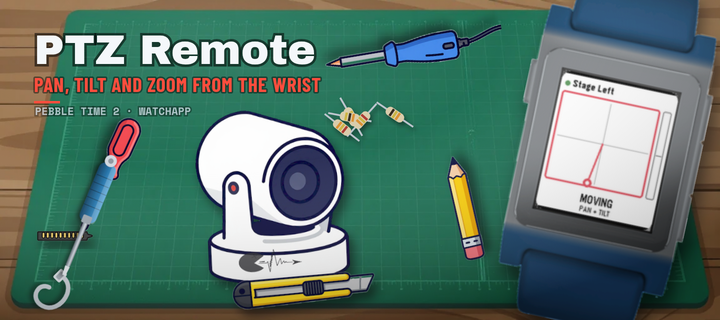
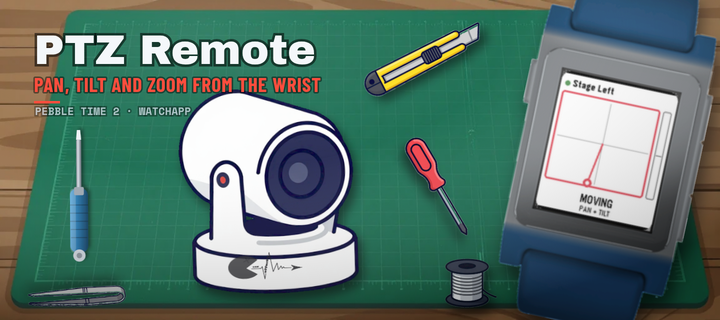
Das Geraet in den Vordergrund, nichts ueberlappt mehr
Das Geraet der App bekommt jetzt die Bildmitte, liegt ganz oben im
Stapel und ist groesser - es ist das Thema des Banners und soll als
erstes gelesen werden. Erst danach fallen die Werkzeuge, und jedes
bekommt nur einen Platz, an dem es nichts beruehrt: nicht den Titel,
nicht die Uhr, nicht das Geraet und kein anderes Werkzeug. Findet ein
Stueck keinen freien Platz, bleibt es eben liegen.

Die Sperrflaeche eines Geraets wird dafuer in waagerechte Baender
zerlegt statt als eine Box gerechnet. Beim Theremin ragt eine duenne
Antenne nach oben; als volle Box haette sie die halbe Bannerhoehe
blockiert und den Tisch leergefegt.

Die Plaetze sind jetzt grosszuegige Zonen statt enger Punkte, und jedes
Werkzeug probiert mehrere Lagen durch - was davon passt, entscheidet die
Kollisionspruefung.

Claude-Session: https://claude.ai/code/session_01Q2ZpSbwi3hgN4GvdvaUSMh

Changed region(s): [[0.2444, 0.0625, 0.7028, 1.0], [0.0306, 0.3438, 0.2139, 0.9688], [0.55, 0.4375, 0.7028, 1.0]]

diff --git a/store/banner/make_desk_banner.py b/store/banner/make_desk_banner.py
@@ -465,31 +465,94 @@ def logo_auf_geraet(uri, platz):
 
 
 PLAETZE = [
-    ("oben", 426, 64, -17, 14, 10, "lang"),
-    ("unten", 300, 294, -5, 22, 8, "lang"),
-    ("links", 94, 206, -78, 10, 12, "kurz"),
-    ("linksoben", 106, 182, -58, 10, 14, "kurz"),
-    ("linksunten", 142, 292, 14, 16, 16, "kurz"),
-    ("rechts", 458, 210, 66, 12, 16, "kurz"),
-    ("kram_oben", 374, 120, 0, 18, 0, "kram"),
-    ("kram_untenrechts", 452, 290, 0, 12, 0, "kram"),
-    ("kram_untenlinks", 54, 292, 0, 10, 0, "kram"),
-    ("kram_links", 74, 244, 0, 10, 0, "kram"),
+    # name, x, y, Drehung, Streuung in x und y, Drehstreuung, Art.
+    # Grosszuegige Zonen statt enger Punkte: was wirklich passt,
+    # entscheidet ohnehin die Kollisionspruefung - sie braucht nur genug
+    # Vorschlaege. Die Mitte gehoert dem Geraet.
+    ("oben", 400, 58, -16, 46, 12, "lang"),
+    ("unten", 290, 292, -4, 60, 8, "lang"),
+    ("links", 62, 196, -80, 20, 14, "kurz"),
+    ("linksunten", 96, 286, 12, 34, 18, "kurz"),
+    ("rechts", 444, 206, 70, 22, 18, "kurz"),
+    ("rechtsoben", 428, 118, 34, 26, 24, "kurz"),
+    ("untenmitte", 340, 292, 8, 50, 14, "kurz"),
+    ("kram_untenrechts", 452, 290, 0, 26, 0, "kram"),
+    ("kram_links", 58, 250, 0, 22, 0, "kram"),
+    ("kram_oben", 372, 36, 0, 40, 0, "kram"),
+    ("kram_linksoben", 62, 142, 0, 22, 0, "kram"),
+    ("kram_untenlinks", 150, 294, 0, 40, 0, "kram"),
 ]
 
 
-def tisch_decken(zufall, projekt, ki=None):
-    """
-    Werkzeuge auf die Plaetze verteilen. Teppichmesser, Loetkolben und
-    zwei Feinschraubendreher sind immer dabei - sie tragen die Serie.
-    Dazu kommen ein bis zwei Stuecke aus dem Vorrat und zwei bis drei
-    Kleinteile, damit kein Tisch wie der vorige aussieht.
+def masse(eintrag, breite=None):
+    """Breite und Hoehe eines Assets in Bannereinheiten."""
+    b = breite or eintrag.get("breite", 160)
+    datei = eintrag.get("datei") or eintrag["dateien"][0]
+    bild = Image.open(os.path.join(KI_ORDNER, datei))
+    return b, b * bild.height / bild.width
 
-    Werkzeuge duerfen um 180 Grad gedreht liegen; beim Loetkolben ist das
-    keine Laune, sondern Pflicht: sein Kabel soll zum Bildrand laufen und
-    nicht quer ueber das Geraet.
+
+def silhouettenboxen(eintrag, x, y, breite=None, baender=7, luft=7):
+    """
+    Die Sperrflaeche eines Geraets, in waagerechte Baender zerlegt.
+
+    Eine einzelne Box um das ganze Asset waere zu grob: beim Theremin
+    ragt eine duenne Antenne nach oben, und die wuerde als Klotz die
+    halbe Bannerhoehe blockieren. Band fuer Band gemessen bleibt nur
+    gesperrt, wo wirklich etwas liegt.
+    """
+    import numpy as np
+    b = breite or eintrag.get("breite", 160)
+    datei = eintrag.get("datei") or eintrag["dateien"][0]
+    bild = Image.open(os.path.join(KI_ORDNER, datei)).convert("RGBA")
+    h = b * bild.height / bild.width
+    alpha = np.asarray(bild.getchannel("A")) > 30
+
+    boxen = []
+    hoch = max(1, alpha.shape[0] // baender)
+    for i in range(0, alpha.shape[0], hoch):
+        streifen = alpha[i:i + hoch]
+        spalten = np.nonzero(streifen.any(axis=0))[0]
+        if not len(spalten):
+            continue
+        links = spalten[0] / bild.width * b - b / 2
+        rechts = (spalten[-1] + 1) / bild.width * b - b / 2
+        oben = i / bild.height * h - h / 2
+        unten = min(i + hoch, alpha.shape[0]) / bild.height * h - h / 2
+        boxen.append((x + links - luft, y + oben - luft,
+                      x + rechts + luft, y + unten + luft))
+    return boxen
+
+
+def huellbox(x, y, dreh, b, h, luft=6):
+    """
+    Achsenparallele Huelle eines gedrehten Rechtecks. Bewusst grosszuegig:
+    lieber ein Platz zu viel verworfen als zwei Werkzeuge, die sich
+    beruehren.
+    """
+    bogen = math.radians(dreh)
+    c, s = abs(math.cos(bogen)), abs(math.sin(bogen))
+    bb = b * c + h * s + 2 * luft
+    hh = b * s + h * c + 2 * luft
+    return (x - bb / 2, y - hh / 2, x + bb / 2, y + hh / 2)
+
+
+def stossen(a, b):
+    """Ueberschneiden sich zwei Rechtecke?"""
+    return not (a[2] <= b[0] or b[2] <= a[0] or a[3] <= b[1] or b[3] <= a[1])
+
+
+def tisch_decken(zufall, projekt, ki=None, belegt=None):
+    """
+    Werkzeuge auf die Plaetze verteilen, ohne dass sich etwas beruehrt.
+
+    Jeder Kandidat bekommt seine Huellbox; stoesst sie an etwas schon
+    Liegendes - Titel, Uhr, das Geraet oder ein anderes Werkzeug - wird
+    der Platz verworfen und der naechste probiert. Lieber liegt ein
+    Werkzeug weniger auf dem Tisch, als dass sich zwei ueberlappen.
     """
     ki = ki or {}
+    belegt = list(belegt or [])
     vorrat = scene.werkzeug_vorrat()
     frei = {art: [p for p in PLAETZE if p[6] == art] for art in ("lang", "kurz", "kram")}
     for art in frei:
@@ -497,72 +560,77 @@ def tisch_decken(zufall, projekt, ki=None):
 
     gelegt = []
 
-    def hinlegen(art, zeichnung, tiefe, flip="zufall"):
-        """flip: 'zufall', 'nie' oder eine Liste von Plaetzen, die kippen."""
-        if not frei[art]:
-            return None
-        name, x, y, dreh, streu, drehstreu, _ = frei[art].pop()
-        x += zufall.uniform(-streu, streu)
-        y += zufall.uniform(-streu, streu)
-        dreh += zufall.uniform(-drehstreu, drehstreu)
-        if flip == "zufall":
-            gekippt = zufall.random() < 0.5
-        elif flip == "nie":
-            gekippt = False
-        else:
-            gekippt = name in flip
-        if gekippt:
-            dreh += 180
-        gelegt.append((tiefe, f'<g transform="translate({x:.0f},{y:.0f}) '
-                              f'rotate({dreh:.1f})">{zeichnung}</g>'))
-        return name
+    def hinlegen(art, name, groesse, zeichnung, tiefe, flip="zufall", versuche=16):
+        """Den ersten Platz nehmen, an dem das Stueck frei liegt."""
+        b, h = groesse
+        for platz in list(frei[art]):
+            _, px_, py_, dreh0, streu, drehstreu, _ = platz
+            for _ in range(versuche):
+                x = px_ + zufall.uniform(-streu, streu)
+                y = py_ + zufall.uniform(-streu, streu)
+                dreh = dreh0 + zufall.uniform(-drehstreu, drehstreu)
+                if flip == "zufall" and zufall.random() < 0.5:
+                    dreh += 180
+                elif isinstance(flip, (tuple, list)) and platz[0] in flip:
+                    dreh += 180
+                box = huellbox(x, y, dreh, b, h)
+                if box[0] < 2 or box[1] < 2 or box[2] > W - 2 or box[3] > H - 2:
+                    continue
+                if any(stossen(box, anderes) for anderes in belegt):
+                    continue
+                belegt.append(box)
+                frei[art].remove(platz)
+                gelegt.append((tiefe, f'<g transform="translate({x:.0f},{y:.0f}) '
+                                      f'rotate({dreh:.1f})">{zeichnung}</g>'))
+                return True
+        return False
 
-    def werkzeug(name, gezeichnet, groesse):
-        """KI-Asset, wenn eines vorliegt - sonst die Zeichnung."""
+    def stueck(name, ersatz_fn, breite):
+        """Asset, wenn vorhanden - sonst die Zeichnung."""
         if name in ki:
-            return ki_bild(ki[name], breite=groesse)
-        return gezeichnet
+            b, h = masse(ki[name], breite)
+            return (b, h), ki_bild(ki[name], breite=breite, zufall=zufall)
+        return (breite, breite * 0.32), ersatz_fn()
 
     # fester Bestand
-    hinlegen("lang", werkzeug("messer", scene.teppichmesser(136 + zufall.uniform(-8, 10)),
-                              136 + zufall.uniform(-8, 10)), zufall.uniform(0.55, 0.9))
-    hinlegen("lang", werkzeug("loetkolben", scene.loetkolben(178 + zufall.uniform(-10, 12)),
-                              176 + zufall.uniform(-10, 12)), zufall.uniform(0.55, 0.9),
-             flip=("oben",))
-    hinlegen("kurz", werkzeug("dreher_rot",
-                              scene.schraubendreher(120 + zufall.uniform(-8, 10), "griff_rot"),
-                              120 + zufall.uniform(-8, 10)), zufall.uniform(0.2, 0.9))
-    hinlegen("kurz", werkzeug("dreher_blau",
-                              scene.schraubendreher(112 + zufall.uniform(-8, 10), "griff_blau"),
-                              112 + zufall.uniform(-8, 10)), zufall.uniform(0.2, 0.9))
+    for name, ersatz, breite, art, flip in (
+            ("messer", lambda: scene.teppichmesser(132), 132, "lang", "zufall"),
+            ("loetkolben", lambda: scene.loetkolben(158), 158, "lang", ("oben",)),
+            ("dreher_rot", lambda: scene.schraubendreher(112, "griff_rot"), 112, "kurz", "zufall"),
+            ("dreher_blau", lambda: scene.schraubendreher(106, "griff_blau"), 106, "kurz", "zufall")):
+        groesse, svg = stueck(name, ersatz, breite)
+        hinlegen(art, name, groesse, svg, zufall.uniform(0.2, 0.9), flip=flip)
 
-    # Gaeste aus dem Vorrat
-    # Gaeste: erst schauen, ob es das Stueck als Asset gibt
+    # Gaeste
     fest = {"messer", "loetkolben", "dreher_rot", "dreher_blau"}
-    gross = [n for n, (art, _) in vorrat.items() if art in ("lang", "kurz")]
+    gross = [n for n, (a, _) in vorrat.items() if a in ("lang", "kurz")]
     gross += [n for n, e in ki.items()
               if e.get("typ") in ("lang", "kurz") and n not in fest and n not in vorrat]
     zufall.shuffle(gross)
-    offen = zufall.randint(1, 2)
+    offen = zufall.randint(2, 3)
     for name in gross:
         if offen <= 0:
             break
         art = ki[name]["typ"] if name in ki else vorrat[name][0]
-        if not frei[art]:
-            continue
-        stueck = (ki_bild(ki[name], zufall=zufall) if name in ki
-                  else vorrat[name][1](zufall))
-        if hinlegen(art, stueck, zufall.uniform(0.2, 0.9)):
+        if name in ki:
+            groesse = masse(ki[name])
+            svg = ki_bild(ki[name], zufall=zufall)
+        else:
+            groesse, svg = (110, 36), vorrat[name][1](zufall)
+        if hinlegen(art, name, groesse, svg, zufall.uniform(0.2, 0.9)):
             offen -= 1
 
     # Kleinteile
-    kram = [n for n, (art, _) in vorrat.items() if art == "kram"]
+    kram = [n for n, (a, _) in vorrat.items() if a == "kram"]
     kram += [n for n, e in ki.items() if e.get("typ") == "kram" and n not in vorrat]
     zufall.shuffle(kram)
-    for name in kram[:zufall.randint(2, 3)]:
-        stueck = (ki_bild(ki[name], zufall=zufall) if name in ki
-                  else vorrat[name][1](zufall))
-        hinlegen("kram", stueck, zufall.uniform(0.05, 0.18), flip="nie")
+    for name in kram[:zufall.randint(3, 5)]:
+        if name in ki:
+            groesse = masse(ki[name])
+            svg = ki_bild(ki[name], zufall=zufall)
+        else:
+            groesse, svg = (52, 52), vorrat[name][1](zufall)
+        hinlegen("kram", name, groesse, svg, zufall.uniform(0.05, 0.18), flip="nie")
 
     return gelegt
 
@@ -637,9 +705,9 @@ def banner(projekt, shot, titel, unterzeile, plattform, logo_pfad, seed,
         logo_im_geraet = ""
     else:
         projekt_svg = scene.PROJEKTE[projekt](akzent, logo_im_geraet)
-    px = 272 + zufall.uniform(-10, 10)
-    py = 196 + zufall.uniform(-8, 8)
-    pd = zufall.uniform(-4, 4)
+    px = 268 + zufall.uniform(-8, 8)
+    py = 190 + zufall.uniform(-6, 6)
+    pd = zufall.uniform(-3, 3)
 
     # Werkzeuge und Geraet nach Tiefe stapeln: manches liegt unter dem
     # Geraet, manches darueber - das macht den Tisch erst unaufgeraeumt.
@@ -664,7 +732,15 @@ def banner(projekt, shot, titel, unterzeile, plattform, logo_pfad, seed,
                     f'<g transform="translate({lage["px"]},{lage["py"]}) '
                     f'rotate({lage["pd"]})">{innen}</g>')
 
-    stapel = tisch_decken(zufall, projekt, ki)
+    # Sperrflaechen, bevor das erste Werkzeug faellt: Titel, Uhr und das
+    # Geraet. Das Thema der App gehoert in den Vordergrund und bleibt frei.
+    belegt = [(16, 4, 350, 134),
+              (uhr_x - uhr_b / 2 - 8, 0, W, H)]
+    if projekt in ki:
+        belegt += silhouettenboxen(ki[projekt], px, py)
+    else:
+        belegt.append(huellbox(px, py, pd, 240, 170, luft=10))
+    stapel = tisch_decken(zufall, projekt, ki, belegt)
     if not ohne_geraet:
         stapel.append((0.5, f'<g transform="translate({px:.0f},{py:.0f}) '
                             f'rotate({pd:.1f})">{projekt_svg}</g>'))

diff --git a/store/banner/README.md b/store/banner/README.md
@@ -18,6 +18,21 @@ dem gerade genau diese App entsteht.
 | Das Geraet der App | Bildmitte |
 | SIDE effect's Logo | auf dem Geraet selbst |
 
+## Nichts ueberlappt, das Geraet steht vorn
+
+Das Geraet der App bekommt die Bildmitte und liegt ganz oben - es ist
+das Thema, und es bleibt frei. Erst danach fallen die Werkzeuge, und
+jedes bekommt nur einen Platz, an dem es nichts beruehrt: nicht den
+Titel, nicht die Uhr, nicht das Geraet und kein anderes Werkzeug.
+Findet ein Stueck keinen freien Platz, bleibt es liegen - lieber ein
+Werkzeug weniger als zwei, die sich schneiden.
+
+Die Sperrflaeche eines Geraets wird dabei nicht als ein Klotz gerechnet,
+sondern in waagerechte Baender zerlegt (`silhouettenboxen`). Beim
+Theremin ragt eine duenne Antenne nach oben; als volle Box wuerde sie
+die halbe Bannerhoehe blockieren, Band fuer Band gemessen nur die paar
+Pixel, die sie wirklich einnimmt.
+
 ## Was sich je App aendert
 
 - **Das Geraet in der Bildmitte** - darum geht es.
